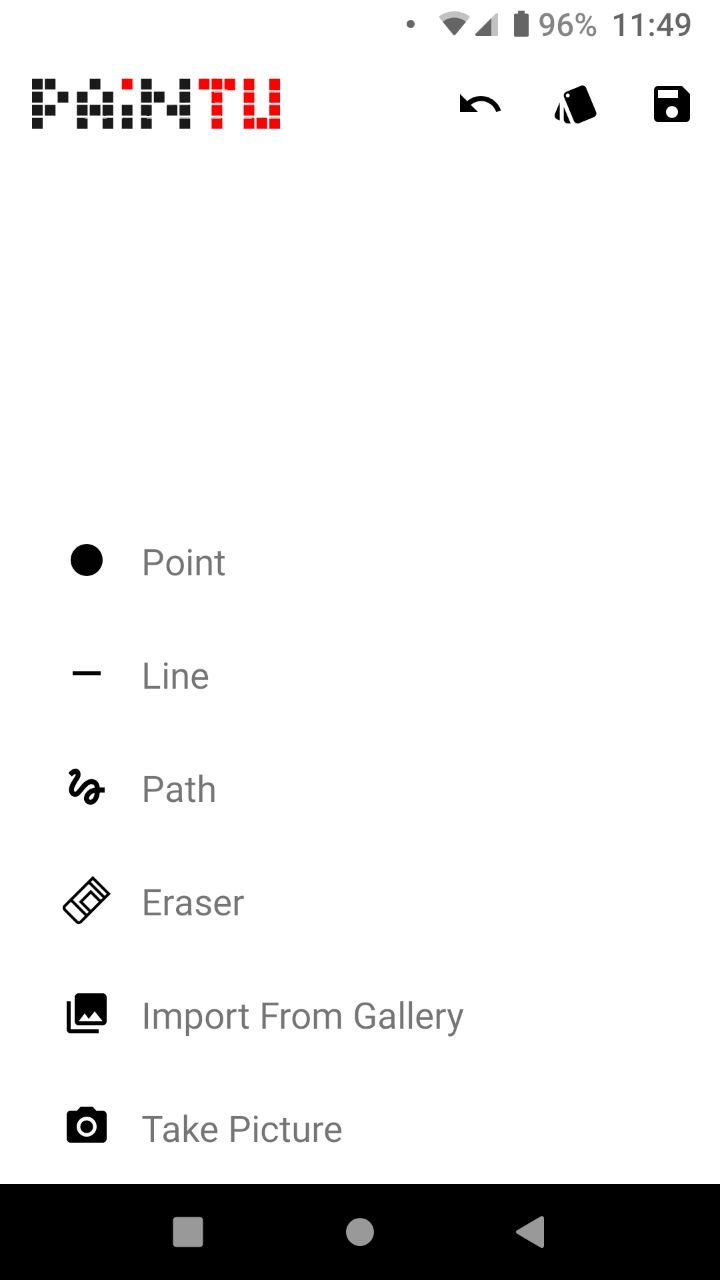
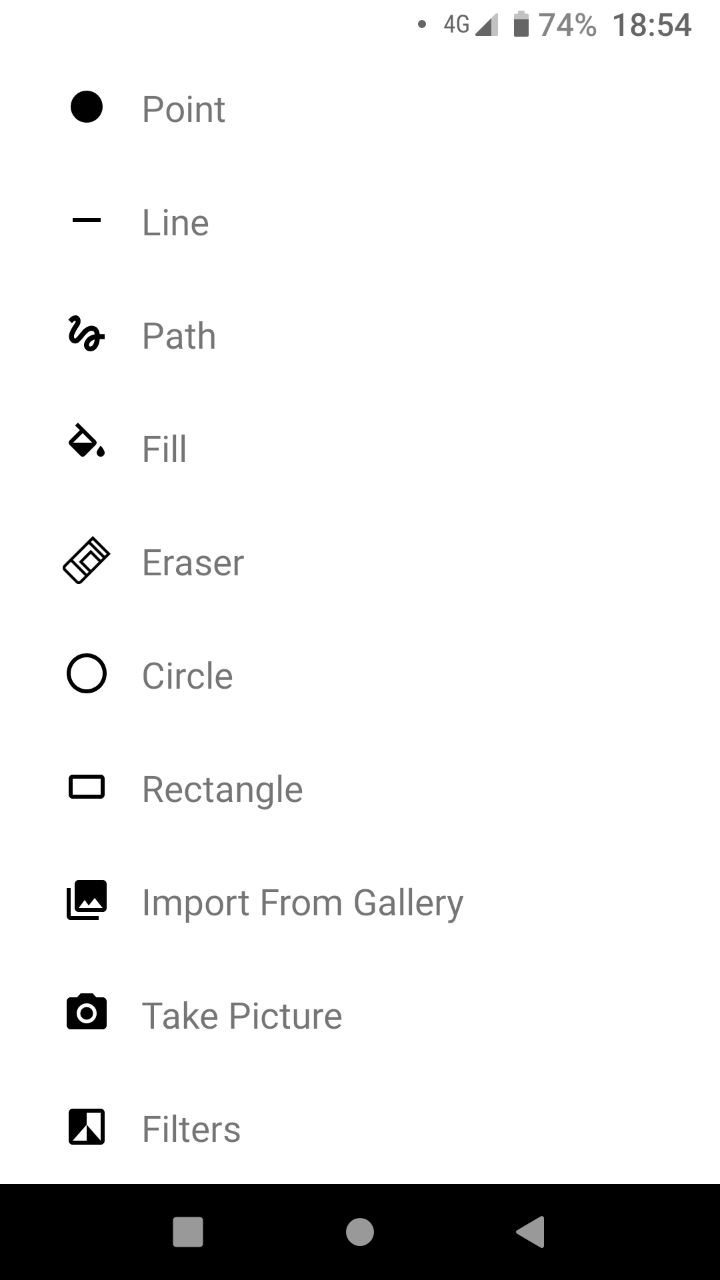
updated readme markdown

diff --git a/README.md b/README.md
@@ -3,18 +3,33 @@
 An android drawing app created by desperate students to push theirs and your
 creative content creating skills to the next level.
 
-This wonderful application provides the following:
+In total 8 different colors are available so far.
 
-Draw an image on an empty canvas using
+This wonderful application provides the following tools:
+
+Draw image on an empty canvas using
 * Point
 * Line (straight only ;))
 * Path
+* Fill
+
+* Circle
+* Rectangle
 
 or erase a mistake or unwanted garbage with an
 * Eraser
 
-<img src="img/toolSelection.jpg" alt="PAINTU tool menu" width="30%" height="30%">
-
 
 You can also import images from your local gallery (please selected them wisely)
-or snap a quick picture and draw a small doodle on it. 
+or snap a quick picture and draw a small doodle on it.
+* Import from gallery
+* Take Picture
+
+Even unique filters can be applied ! :)
+* Filters
+
+<img src="img/toolSelection.jpg" alt="PAINTU tool menu" width="30%" height="30%">
+
+Drawing showcase using the path tool
+
+<img src="img/drawingInAction.jpg" alt="PAINTU tool menu" width="30%" height="30%">
